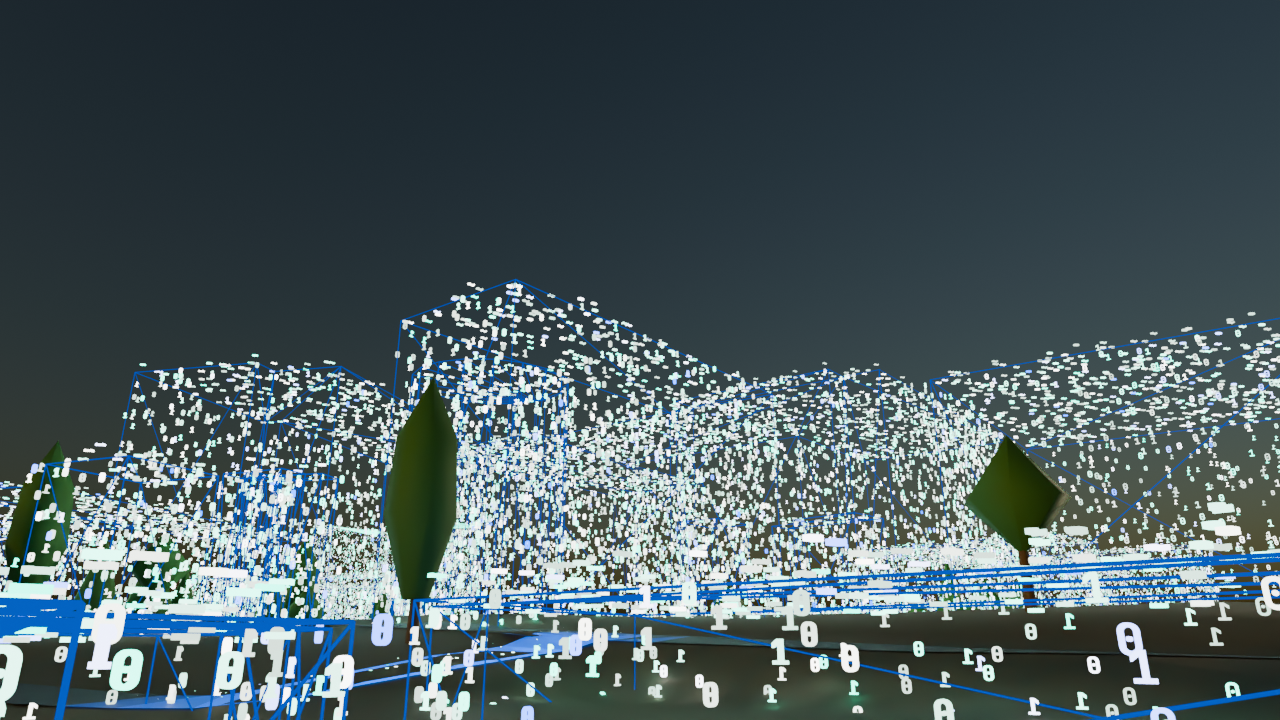
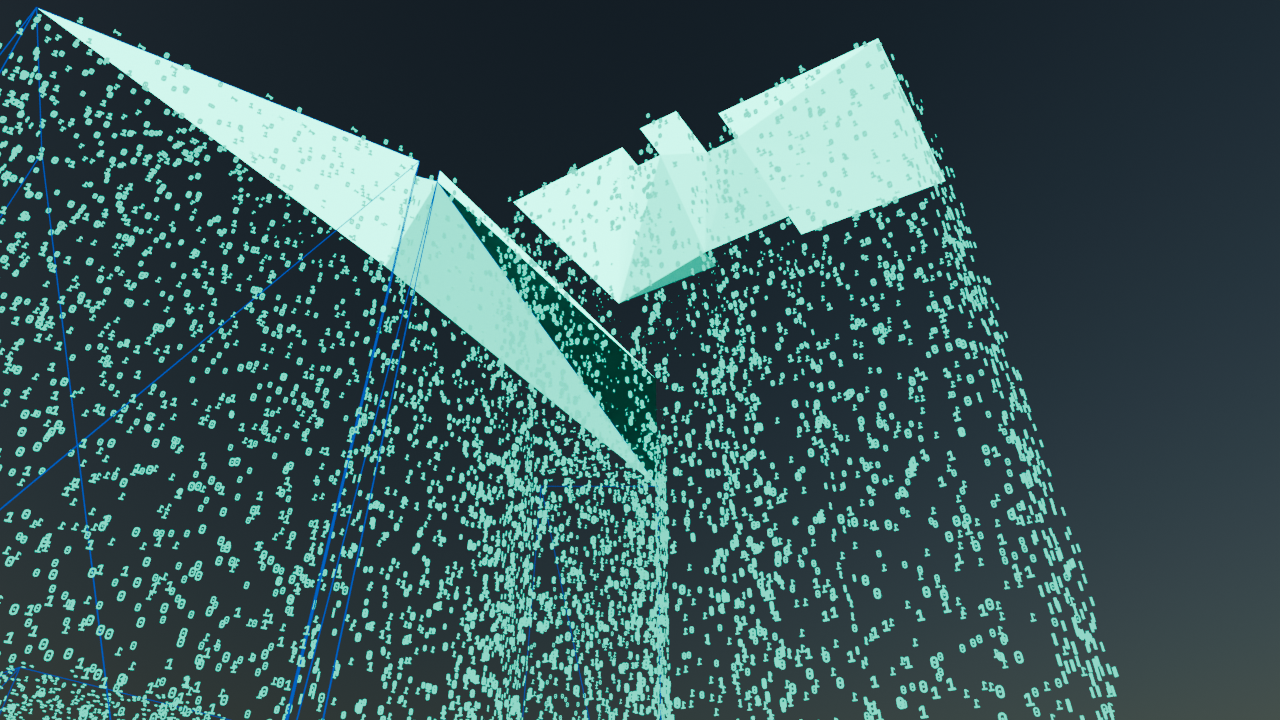
Binary glyphs: per-instance colour and pulse via Object Info; softer dissolve front; scene 02 framing

diff --git a/POSTA_2040/scripts/common/posta_lib.py b/POSTA_2040/scripts/common/posta_lib.py
@@ -47,25 +47,32 @@ def new_mat(name, color=(0.8, 0.8, 0.8, 1), rough=0.5, metal=0.0, emission=None,
     return m
 
 def glyph_material(name='MAT_BinaryGlyph', c1='turq', c2='blue', strength=6.0):
-    """Emissive glyph material; colour picked per instance from attribute 'bit_rand'; pulse from 'flow'."""
+    """Emissive glyph material; colour picked per instance from Object Info > Random (works for GN instances in Cycles);
+    pulse = 0.5+0.5*sin(time*4 + random*2pi) with 'time' driven by the frame."""
     m = bpy.data.materials.get(name) or bpy.data.materials.new(name)
     m.use_nodes = True; nt = m.node_tree
     for n in list(nt.nodes): nt.nodes.remove(n)
     out = nt.nodes.new('ShaderNodeOutputMaterial')
     em = nt.nodes.new('ShaderNodeEmission')
-    attr = nt.nodes.new('ShaderNodeAttribute'); attr.attribute_type = 'GEOMETRY'; attr.attribute_name = 'bit_rand'
+    oi = nt.nodes.new('ShaderNodeObjectInfo')
     ramp = nt.nodes.new('ShaderNodeValToRGB'); ramp.color_ramp.interpolation = 'CONSTANT'
-    ramp.color_ramp.elements[0].color = PAL[c1]; ramp.color_ramp.elements[1].position = 0.55; ramp.color_ramp.elements[1].color = PAL[c2]
-    e2 = ramp.color_ramp.elements.new(0.82); e2.color = PAL['white']
-    e3 = ramp.color_ramp.elements.new(0.95); e3.color = PAL['orange']
-    pulse = nt.nodes.new('ShaderNodeAttribute'); pulse.attribute_type = 'GEOMETRY'; pulse.attribute_name = 'pulse'
-    mul = nt.nodes.new('ShaderNodeMath'); mul.operation = 'MULTIPLY_ADD'; mul.inputs[1].default_value = strength; mul.inputs[2].default_value = strength * 0.35
-    nt.links.new(attr.outputs['Fac'], ramp.inputs[0]); nt.links.new(ramp.outputs[0], em.inputs[0])
-    nt.links.new(pulse.outputs['Fac'], mul.inputs[0]); nt.links.new(mul.outputs[0], em.inputs[1])
+    ramp.color_ramp.elements[0].color = PAL[c1]; ramp.color_ramp.elements[1].position = 0.5; ramp.color_ramp.elements[1].color = PAL[c2]
+    e2 = ramp.color_ramp.elements.new(0.8); e2.color = PAL['white']
+    e3 = ramp.color_ramp.elements.new(0.94); e3.color = PAL['orange']
+    nt.links.new(oi.outputs['Random'], ramp.inputs[0]); nt.links.new(ramp.outputs[0], em.inputs[0])
+    tval = nt.nodes.new('ShaderNodeValue'); tval.name = 'time'; tval.label = 'time'
+    fc = tval.outputs[0].driver_add('default_value'); fc.driver.expression = 'frame/24.0'
+    ph = nt.nodes.new('ShaderNodeMath'); ph.operation = 'MULTIPLY_ADD'; ph.inputs[1].default_value = 6.283
+    nt.links.new(oi.outputs['Random'], ph.inputs[0])
+    t4 = nt.nodes.new('ShaderNodeMath'); t4.operation = 'MULTIPLY'; t4.inputs[1].default_value = 4.0; nt.links.new(tval.outputs[0], t4.inputs[0])
+    nt.links.new(t4.outputs[0], ph.inputs[2])
+    sn = nt.nodes.new('ShaderNodeMath'); sn.operation = 'SINE'; nt.links.new(ph.outputs[0], sn.inputs[0])
+    pulse = nt.nodes.new('ShaderNodeMath'); pulse.operation = 'MULTIPLY_ADD'; pulse.inputs[1].default_value = strength * 0.4; pulse.inputs[2].default_value = strength * 0.8
+    nt.links.new(sn.outputs[0], pulse.inputs[0]); nt.links.new(pulse.outputs[0], em.inputs[1])
     nt.links.new(em.outputs[0], out.inputs[0])
     return m
 
-def dissolving_material(name, base_color, rough=0.6, metal=0.0, glow='turq', glow_strength=8.0):
+def dissolving_material(name, base_color, rough=0.6, metal=0.0, glow='turq', glow_strength=2.5):
     """Surface material whose faces glow at the dissolve front: reads face attribute 'front' (0..1)."""
     m = bpy.data.materials.get(name) or bpy.data.materials.new(name)
     m.use_nodes = True; nt = m.node_tree

diff --git a/POSTA_2040/scripts/scenes/s02.py b/POSTA_2040/scripts/scenes/s02.py
@@ -20,10 +20,10 @@ def build(scn, quality):
     top = P.nearest_building_top(sx, sy, 60); tx, ty, th = (top[0].x, top[0].y, top[1]) if top else (sx + 30, sy + 30, sz + 30)
     print('hero building', tx, ty, th)
     import math as _m
-    ang = _m.atan2(ty - sy, tx - sx); d0 = 45.0
-    c0 = (tx - _m.cos(ang) * d0, ty - _m.sin(ang) * d0, sz + 1.7); c1 = (tx - _m.cos(ang) * (d0 - 14), ty - _m.sin(ang) * (d0 - 14), sz + 5.0)
+    ang = _m.atan2(ty - sy, tx - sx); d0 = 70.0
+    c0 = (tx - _m.cos(ang) * d0, ty - _m.sin(ang) * d0, sz + 1.7); c1 = (tx - _m.cos(ang) * (d0 - 18), ty - _m.sin(ang) * (d0 - 18), sz + 4.0)
     P.clear_trees_near([c0, c1, (sx, sy)], 28)
-    cam = P.add_camera(loc=c0, target=(tx, ty, sz + 8), lens=24, dof_target=30, fstop=4)
-    S.cam_path(cam, [(1, c0), (F, c1)], [(1, (tx, ty, sz + 6)), (F, (tx, ty, th + 6))])
+    cam = P.add_camera(loc=c0, target=(tx, ty, sz + 8), lens=22, dof_target=45, fstop=5.6)
+    S.cam_path(cam, [(1, c0), (F, c1)], [(1, (tx, ty, sz + 10)), (F, (tx, ty, th * 0.75))])
     P.setup_render(samples=28, motion_blur=False, frame_end=F)
     S.frame_range(scn)

diff --git a/POSTA_2040/scripts/rendering/render_scene.py b/POSTA_2040/scripts/rendering/render_scene.py
@@ -21,8 +21,8 @@ if quality == 'preview':
     sc.render.resolution_percentage = 50; sc.cycles.samples = min(sc.cycles.samples, 16)
 out = os.path.join(ROOT, 'renders', sid + ('_preview' if quality == 'preview' else '')); os.makedirs(out, exist_ok=True)
 frames = list(range(start, end + 1, step))
-if quality == 'still':  # one representative frame in the middle at full quality
-    frames = [int(args[3])] if len(args) > 3 else [(scn['frames'] // 2)]; out = os.path.join(ROOT, 'previews'); 
+if quality == 'still':  # one representative frame (arg 3 = frame) at full quality
+    frames = [int(args[2])] if len(args) > 2 else [(scn['frames'] // 2)]; out = os.path.join(ROOT, 'previews')
 for f in frames:
     fp = os.path.join(out, f'f_{f:04d}.png') if quality != 'still' else os.path.join(out, f'{sid}_still_{f:04d}.png')
     if os.path.exists(fp) and quality != 'still': continue
